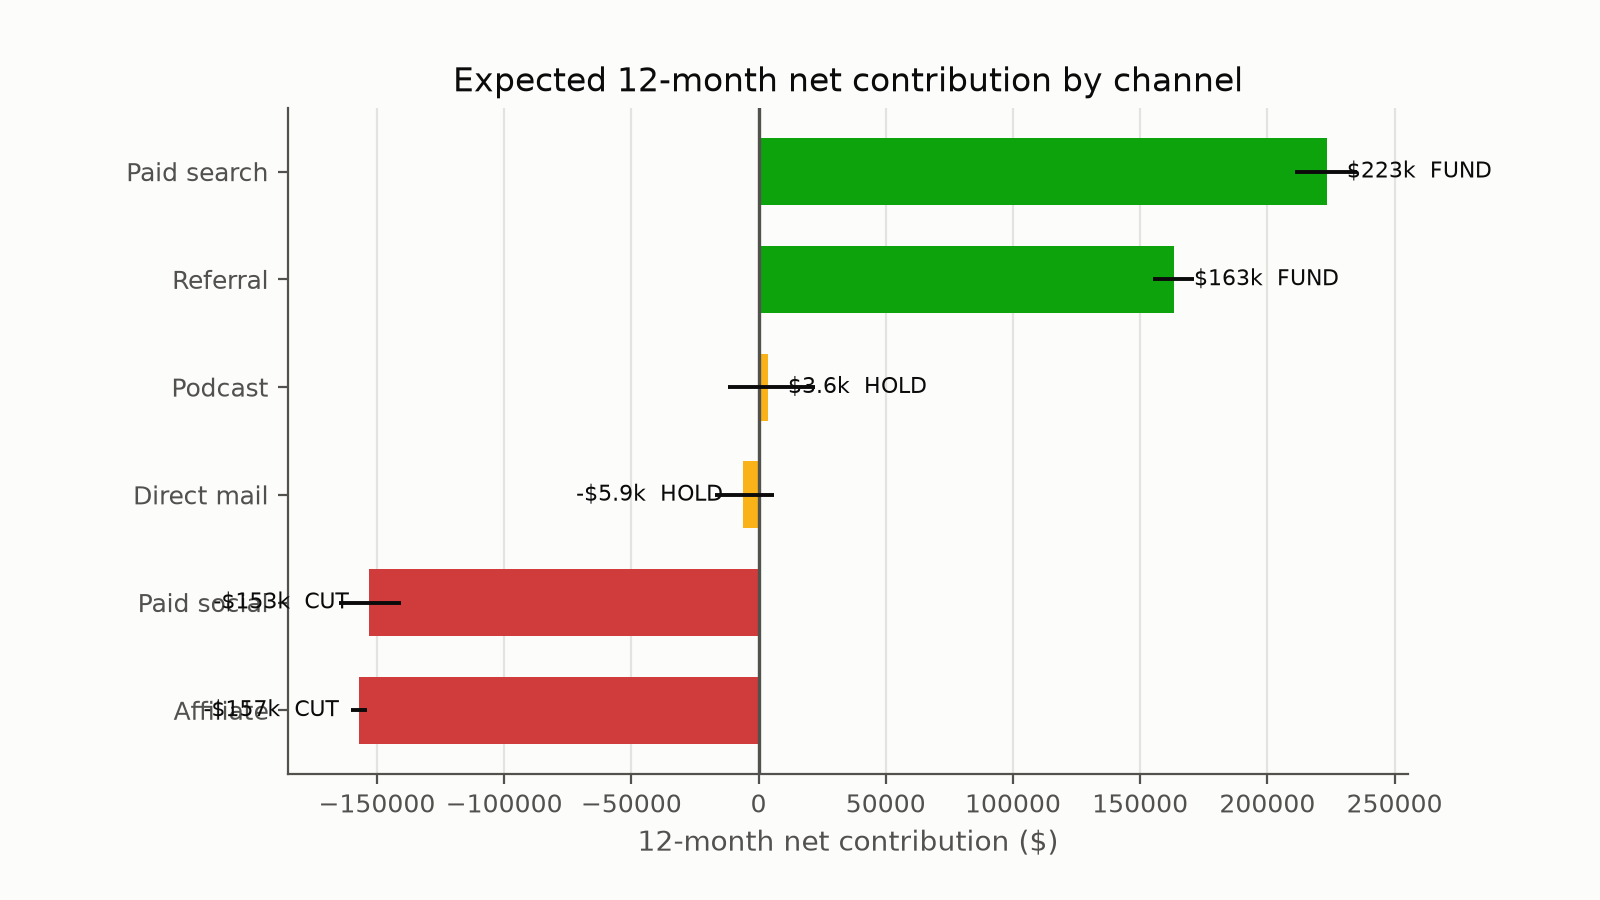
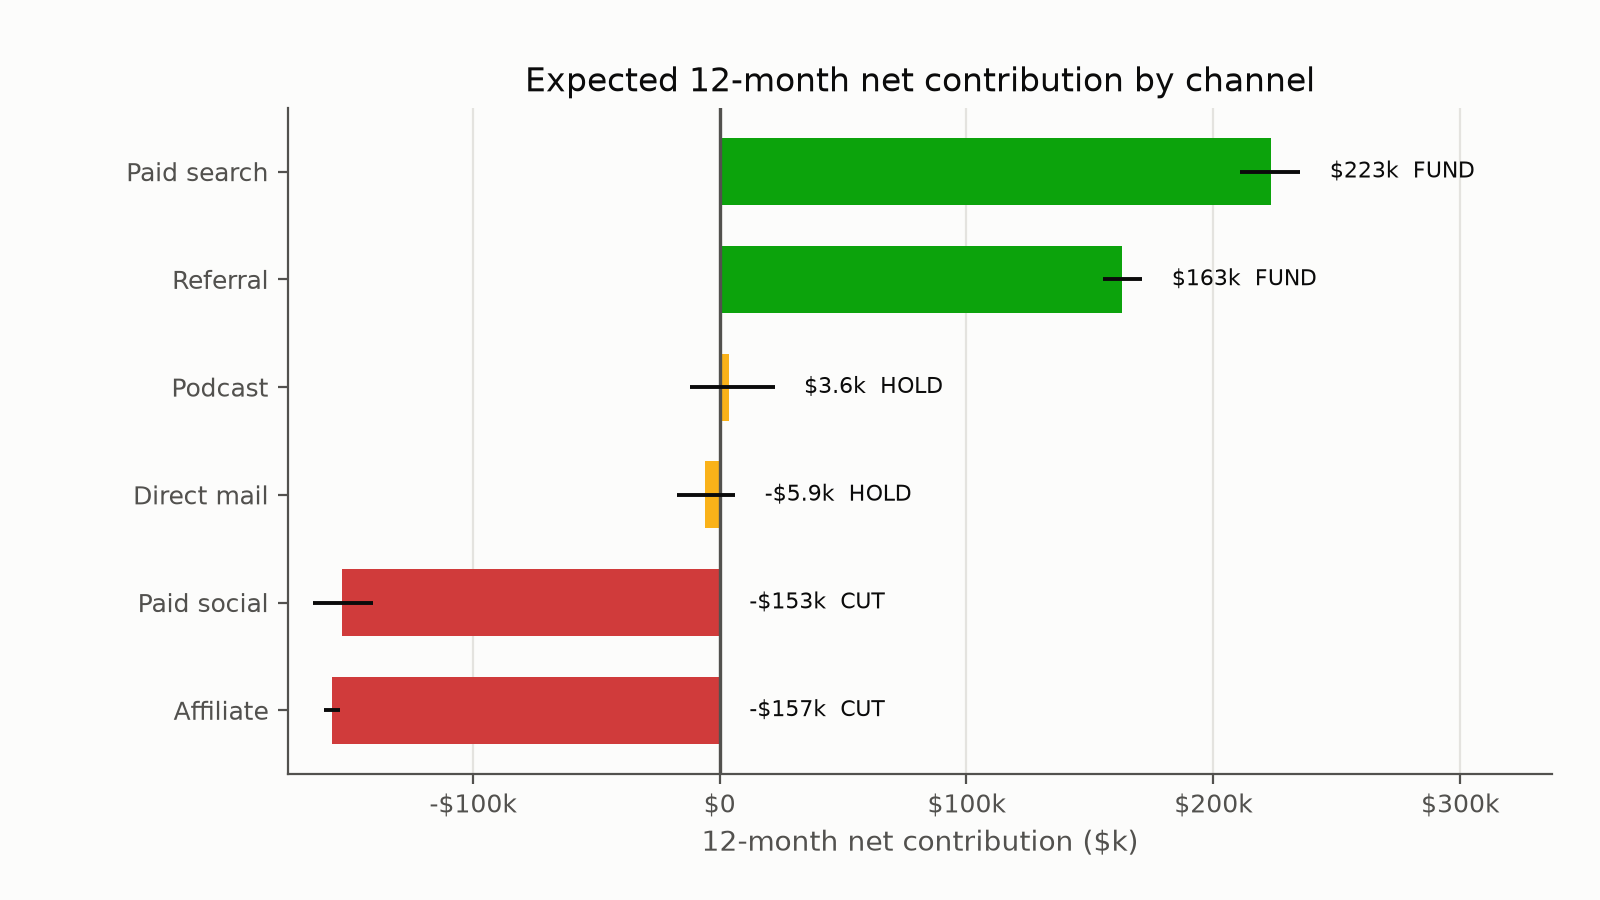
Fix chart label overlaps and money axes

diff --git a/src/acr/charts.py b/src/acr/charts.py
@@ -156,18 +156,6 @@ def chart_forecast_by_channel(tables: Path, figures: Path) -> Path:
             label="Forecast median" if idx == 0 else None,
         )
         ax.axvline(start, color=MUTED, linewidth=1.0)
-        if idx == 0:
-            ymax = max(float(hist["signups"].max()), float(fut["p95"].max()))
-            ax.text(
-                start,
-                ymax * 0.98,
-                "Forecast starts",
-                color=MUTED,
-                fontsize=8,
-                rotation=90,
-                va="top",
-                ha="right",
-            )
         method = METHOD_LABEL.get(str(methods.loc[channel]), str(methods.loc[channel]))
         ax.set_title(f"{channel_name(channel)} · {method}", fontsize=11, color=INK)
         ax.set_ylim(bottom=0)
@@ -179,11 +167,18 @@ def chart_forecast_by_channel(tables: Path, figures: Path) -> Path:
         Line2D([0], [0], color=BLUE, linewidth=2.0, linestyle="--", label="Forecast median"),
         Patch(facecolor=BAND_80, edgecolor="none", label="80% band"),
         Patch(facecolor=BAND_90, edgecolor="none", label="90% band"),
+        Line2D(
+            [0],
+            [0],
+            color=MUTED,
+            linewidth=1.0,
+            label="Forecast starts (2025-12-29)",
+        ),
     ]
     fig.legend(
         handles=handles,
         loc="lower center",
-        ncol=4,
+        ncol=5,
         frameon=False,
         fontsize=9,
         bbox_to_anchor=(0.5, 0.01),
@@ -212,8 +207,10 @@ def chart_backtest_error(tables: Path, figures: Path) -> Path:
 
     y_positions = np.arange(len(channels))
     height = 0.22
+    # Higher y is drawn higher on the panel, so reverse the variant offset
+    # to put Seasonal naive at the top of each group.
     for v_idx, variant in enumerate(VARIANT_ORDER):
-        offsets = y_positions + (v_idx - 1) * height
+        offsets = y_positions + (1 - v_idx) * height
         values = []
         chosen_flags = []
         for channel in channels:
@@ -246,15 +243,18 @@ def chart_backtest_error(tables: Path, figures: Path) -> Path:
     ax.set_yticklabels([channel_name(ch) for ch in channels], color=MUTED)
     ax.set_xlabel("Mean weekly MAPE (%)")
     ax.set_title("Back-test error by forecast method (lower is better)")
-    ax.legend(
-        loc="upper center",
-        bbox_to_anchor=(0.5, 1.14),
+    ax.set_xlim(left=0)
+    handles, labels = ax.get_legend_handles_labels()
+    fig.legend(
+        handles,
+        labels,
+        loc="lower center",
+        bbox_to_anchor=(0.5, 0.02),
         ncol=3,
         frameon=False,
         fontsize=9,
     )
-    ax.set_xlim(left=0)
-    fig.subplots_adjust(left=0.18, right=0.96, top=0.78, bottom=0.14)
+    fig.subplots_adjust(left=0.18, right=0.96, top=0.88, bottom=0.28)
     path = figures / "backtest_error.png"
     _save(fig, path)
     return path
@@ -313,19 +313,28 @@ def chart_did_gap(tables: Path, figures: Path) -> Path:
         linewidth=0,
     )
     ax.hlines(effect, window_start, window_end, color=INK, linewidth=2.0)
+    y_top = float(y.max()) + 15.0
+    ax.set_ylim(top=y_top)
+    label_box = dict(facecolor=BG, alpha=0.9, edgecolor="none")
     ax.text(
         window_start + pd.Timedelta(days=2),
-        float(y.max()) * 0.92,
+        y_top - 3.0,
         "Paid social budget +51%",
         color=MUTED,
         fontsize=9,
+        va="top",
+        zorder=5,
+        bbox=label_box,
     )
     ax.text(
         window_start + pd.Timedelta(days=2),
-        effect + 1.5,
+        ci_low - 1.5,
         "Estimated effect +19%",
         color=INK,
         fontsize=9,
+        va="top",
+        zorder=5,
+        bbox=label_box,
     )
     ax.set_ylabel("Paid social signups vs other channels (% vs normal)")
     ax.set_title("What the paid social budget increase did")
@@ -355,16 +364,20 @@ def chart_ratio_ranges(tables: Path, figures: Path) -> Path:
             fontsize=9,
         )
     ax.axvline(1.0, color=MUTED, linewidth=1.2, linestyle="--")
-    ax.text(
-        1.02,
-        float(y.max()) + 0.35,
-        "Break-even within 12 months",
-        color=MUTED,
-        fontsize=8,
-    )
     ax.set_yticks(y)
     ax.set_yticklabels(
         [channel_name(ch) for ch in decisions["channel"]], color=MUTED
+    )
+    ax.set_ylim(-0.75, float(y.max()) + 0.45)
+    ax.text(
+        1.02,
+        -0.55,
+        "Break-even within 12 months",
+        color=MUTED,
+        fontsize=8,
+        va="bottom",
+        ha="left",
+        bbox=dict(facecolor=BG, alpha=0.9, edgecolor="none"),
     )
     ax.set_xlabel("12-month value per $1 spent (5% to 95% range)")
     ax.set_title("How sure we are about each channel")
@@ -389,16 +402,17 @@ def chart_net_contribution(tables: Path, figures: Path) -> Path:
         linewidth=1.4,
         zorder=3,
     )
+    gap = 12000.0
+    label_x = []
     for idx, (_, row) in enumerate(decisions.iterrows()):
-        xpos = float(row["net_median"])
-        ha = "left" if xpos >= 0 else "right"
-        offset = 8000 if xpos >= 0 else -8000
+        xpos = max(0.0, float(row["net_p95"])) + gap
+        label_x.append(xpos)
         ax.text(
-            xpos + offset,
+            xpos,
             y[idx],
             f"{money_k(float(row['net_median']))}  {row['call']}",
             va="center",
-            ha=ha,
+            ha="left",
             color=INK,
             fontsize=8,
         )
@@ -407,9 +421,15 @@ def chart_net_contribution(tables: Path, figures: Path) -> Path:
     ax.set_yticklabels(
         [channel_name(ch) for ch in decisions["channel"]], color=MUTED
     )
-    ax.set_xlabel("12-month net contribution ($)")
+    left = float(min(decisions["net_p5"].min(), decisions["net_median"].min(), 0.0))
+    right = float(max(label_x) + 90000.0)
+    ax.set_xlim(left - 10000.0, right)
+    ax.xaxis.set_major_formatter(
+        plt.FuncFormatter(lambda value, _pos: "$0" if abs(value) < 0.5 else money_k(value))
+    )
+    ax.set_xlabel("12-month net contribution ($k)")
     ax.set_title("Expected 12-month net contribution by channel")
-    fig.subplots_adjust(left=0.18, right=0.88, top=0.88, bottom=0.14)
+    fig.subplots_adjust(left=0.18, right=0.97, top=0.88, bottom=0.14)
     path = figures / "net_contribution.png"
     _save(fig, path)
     return path
@@ -528,9 +548,12 @@ def chart_budget_change(tables: Path, figures: Path) -> Path:
     ax.axhline(0, color=MUTED, linewidth=1.0)
     ax.set_xticks(x)
     ax.set_xticklabels(labels, color=MUTED, fontsize=9)
-    ax.set_ylabel("Change in 12-month net contribution ($)")
+    ax.yaxis.set_major_formatter(
+        plt.FuncFormatter(lambda value, _pos: "$0" if abs(value) < 0.5 else money_k(value))
+    )
+    ax.set_ylabel("Change in 12-month net contribution ($k)")
     ax.set_title("If the freed budget moved all at once (DiD elasticity assumed)")
-    fig.subplots_adjust(left=0.12, right=0.97, top=0.88, bottom=0.18)
+    fig.subplots_adjust(left=0.14, right=0.97, top=0.88, bottom=0.18)
     path = figures / "budget_change.png"
     _save(fig, path)
     return path
